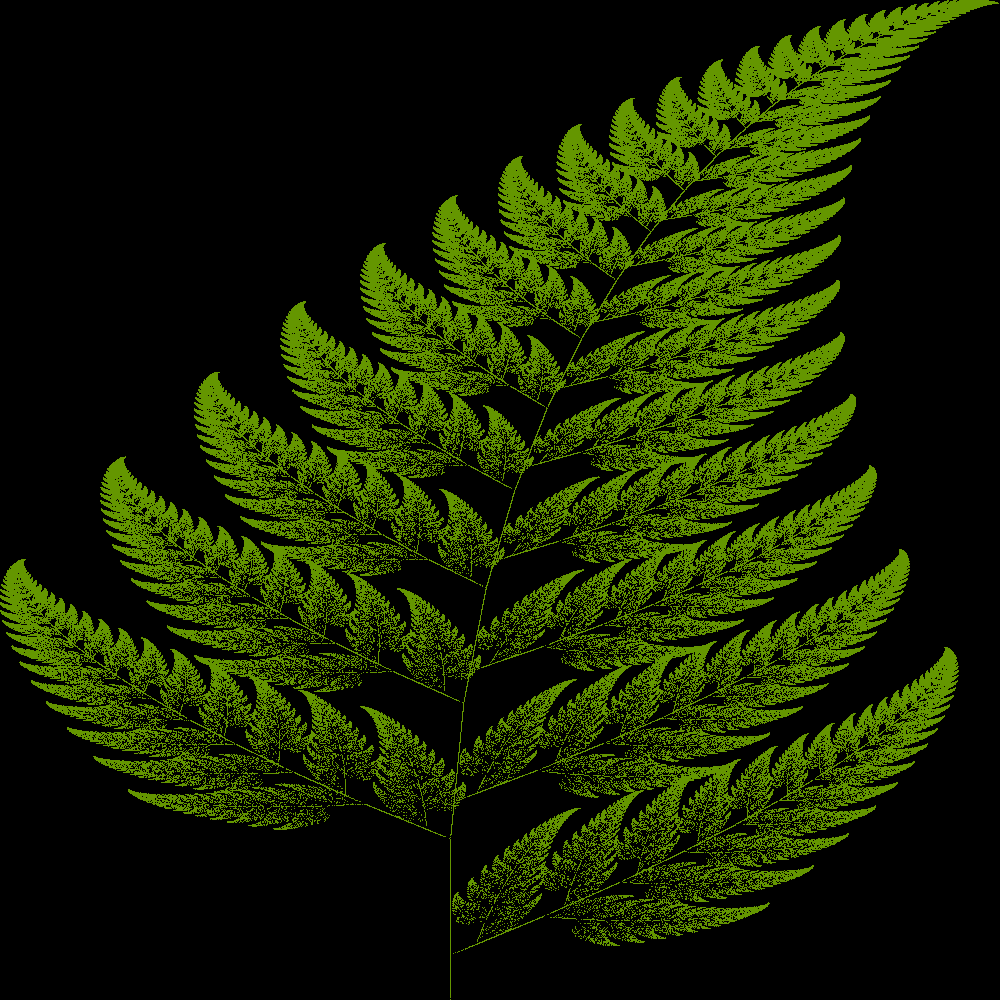
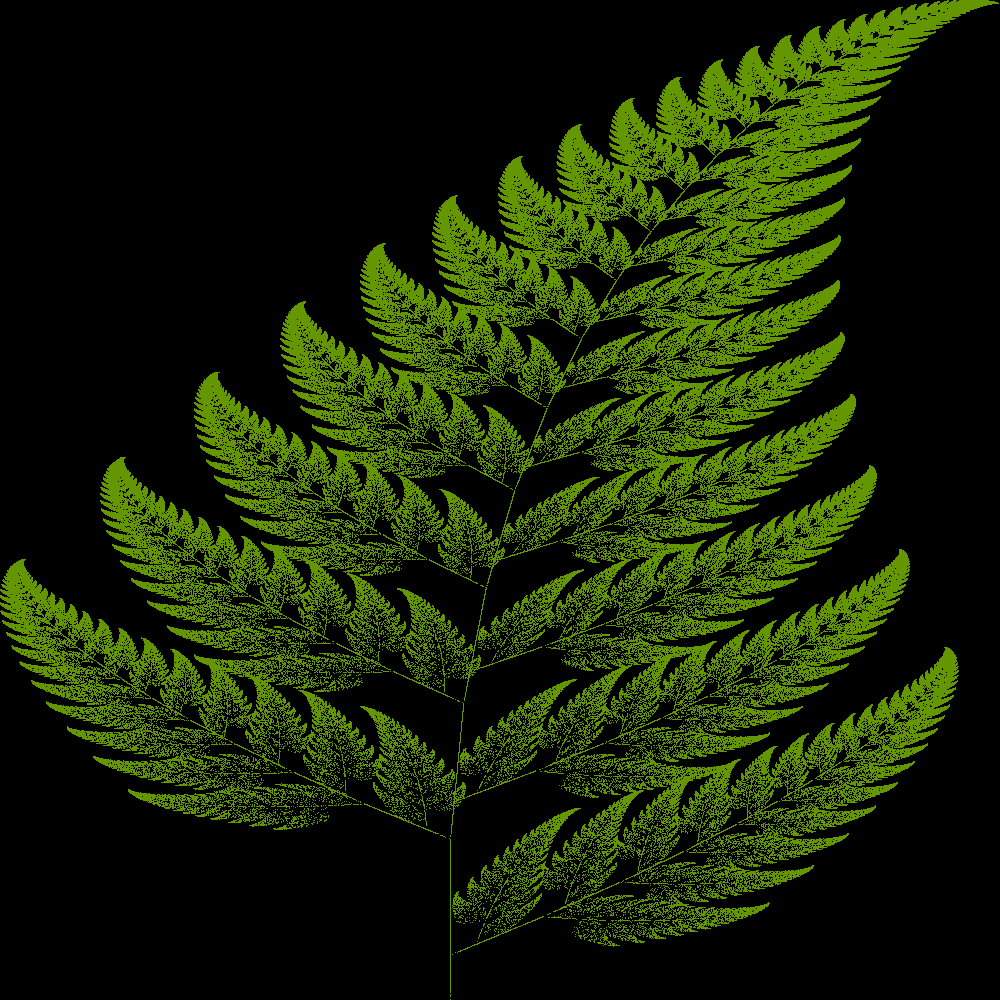
minor updates

Changed region(s): [[0.031, 0.124, 0.93, 0.961], [0.775, 0.093, 0.806, 0.124], [0.713, 0.093, 0.744, 0.124]]

diff --git a/barnsley.py b/barnsley.py
@@ -1,11 +1,12 @@
+import argparse
 import random
-from PIL import Image
+from PIL import Image, ImageColor
 
 
 
 class BarnsleyFern(object):
     def __init__(self, img_width, img_height, paint_color=(100, 150, 0),
-                 bg_color=(0, 0, 0)): # white - bg_color=(255, 255, 255)
+                 bg_color=(0, 0, 0)): # or white - bg_color=(255, 255, 255)
         self.img_width, self.img_height = img_width, img_height
         self.paint_color = paint_color
         self.x, self.y = 0, 0
@@ -37,8 +38,59 @@ class BarnsleyFern(object):
             self.pix[self.scale(self.x, self.y)] = self.paint_color
         self.age += iterations
 
-fern = BarnsleyFern(1_000, 1_000)
+def parse_color(value):
+    try:
+        color = ImageColor.getrgb(value)
+    except ValueError:
+        raise argparse.ArgumentTypeError("use a color name or #RRGGBB hex color")
+    if len(color) != 3:
+        raise argparse.ArgumentTypeError("use an RGB color without transparency")
+    return color
 
-fern.iterate(1_000_000)
-fern.fern.show()
-fern.fern.save("barnsley.png")
+
+def main():
+    parser = argparse.ArgumentParser(description="Generate a Barnsley fern image.")
+    parser.add_argument("--iterations", type=int, default=1_000_000,
+                        help="number of iterations (default: 1_000_000)")
+    parser.add_argument("--seed", type=int,
+                        help="random seed for reproducible output")
+    parser.add_argument("--color", type=parse_color, default=(100, 150, 0),
+                        help="fern color name or #RRGGBB (default: #649600)")
+    parser.add_argument("--background", type=parse_color, default=(0, 0, 0),
+                        help="background color name or #RRGGBB (default: black)")
+    parser.add_argument("--output", default="barnsley.png",
+                        help="output image path (default: barnsley.png)")
+    parser.add_argument("--gallery", action="store_true",
+                        help="save four presets; uses --seed but ignores other rendering options")
+    args = parser.parse_args()
+    if not args.gallery and args.iterations < 0:
+        parser.error("--iterations must be non-negative")
+
+    if args.seed is not None:
+        random.seed(args.seed)
+    if args.gallery:
+        # Each preset is (output, iterations, fern color, background color).
+        renders = [
+            ("barnsley_classic.png", 1_000_000, (100, 150, 0), (0, 0, 0)),
+            ("barnsley_autumn.png", 1_000_000, ImageColor.getrgb("darkorange"),
+             ImageColor.getrgb("maroon")),
+            ("barnsley_blue.png", 1_000_000, ImageColor.getrgb("deepskyblue"),
+             ImageColor.getrgb("midnightblue")),
+            ("barnsley_high_density.png", 3_000_000, (100, 150, 0), (0, 0, 0)),
+        ]
+    else:
+        renders = [(args.output, args.iterations, args.color, args.background)]
+
+    for output, iterations, color, background in renders:
+        fern = BarnsleyFern(1_000, 1_000, color, background)
+        fern.iterate(iterations)
+        try:
+            fern.fern.save(output)
+        except (OSError, ValueError) as error:
+            parser.error("cannot save output: {}".format(error))
+        if not args.gallery:
+            fern.fern.show()
+
+
+if __name__ == "__main__":
+    main()

diff --git a/README.md b/README.md
@@ -1,10 +1,57 @@
 # Barnsley fern
 
-The [Barnsley fern](https://en.wikipedia.org/wiki/Barnsley_fern) is a fractal named after the British mathematician Michael Barnsley.
+The Barnsley fern is a fractal named after mathematician Michael Barnsley. This small Python project is from my early days learning to program, and I keep it as part of that history.
 
-<img src="https://github.com/Bortrex/fractal_barnsley/assets/24497590/06e3ace4-2491-4dbf-b1f2-d83773a6933d" width="500" height="500">
+The script repeatedly applies one of four affine transformations to a point, choosing each transformation with a fixed probability.
 
+![Example Barnsley fern generated by the script](barnsley.png)
 
-## Author
+The `barnsley.png` is an example .
 
-– [@Bortrex](https://github.com/Bortrex)
+## Running it
+
+Use Python 3.X The only dependency is Pillow.
+
+From the repository directory:
+
+```sh
+python -m pip install -r requirements.txt
+python barnsley.py
+```
+
+By default, the script generates a 1,000 × 1,000 image using one million iterations, saves it as `barnsley.png` in the current directory, and opens it in an image viewer. Saving overwrites an existing file.
+
+## Command-line options
+
+- `--iterations INTEGER`: number of iterations, zero or greater (default: `1_000_000`).
+- `--seed INTEGER`: optional random seed for reproducible output with the same parameters.
+- `--color COLOR`: fern color as a Pillow color name (default: `#649600`, RGB 100, 150, 0).
+- `--background COLOR`: background color in the same format (default: `black`).
+- `--output PATH`: output image filename or path (default: `barnsley.png`).
+
+Use `python barnsley.py --help` for help. For example:
+
+```sh
+python barnsley.py --iterations 250000
+python barnsley.py --iterations 1000000 --seed 42
+python barnsley.py --color darkgreen --background white
+python barnsley.py --seed 42 --output fern_seed42.png
+```
+
+# Small update
+## Gallery mode
+
+```sh
+python barnsley.py --gallery
+python barnsley.py --gallery --seed 42
+```
+
+Gallery mode saves four 1,000 × 1,000 images in the current directory, no opening any viewer:
+
+| File | Fern / background | Iterations |
+| --- | --- | --- |
+| `barnsley_classic.png` | Default green / black | 1,000,000 |
+| `barnsley_autumn.png` | Dark orange / maroon | 1,000,000 |
+| `barnsley_blue.png` | Deep sky blue / midnight blue | 1,000,000 |
+| `barnsley_high_density.png` | Default green / black | 3,000,000 |
+
